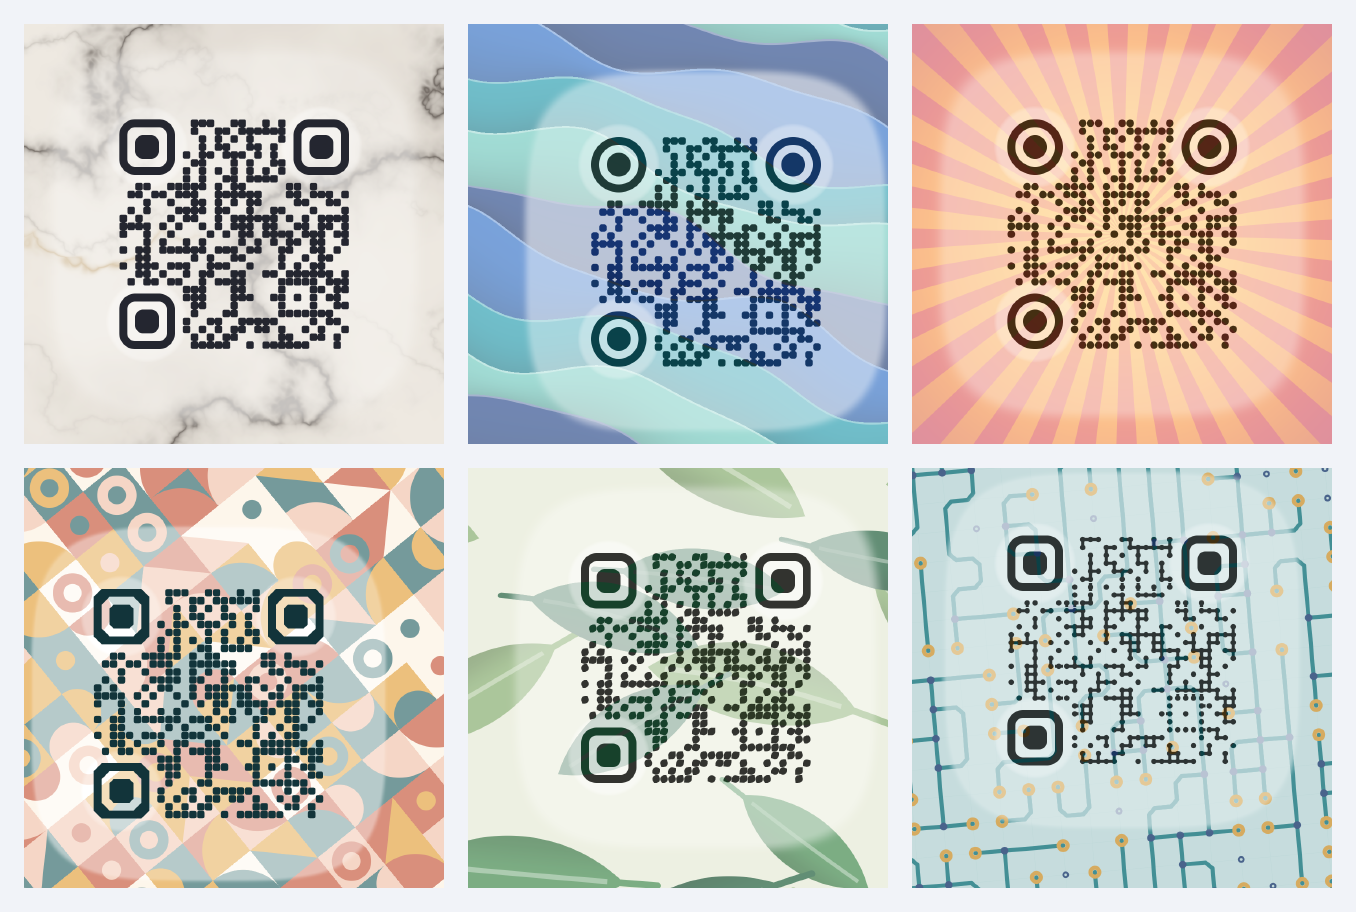
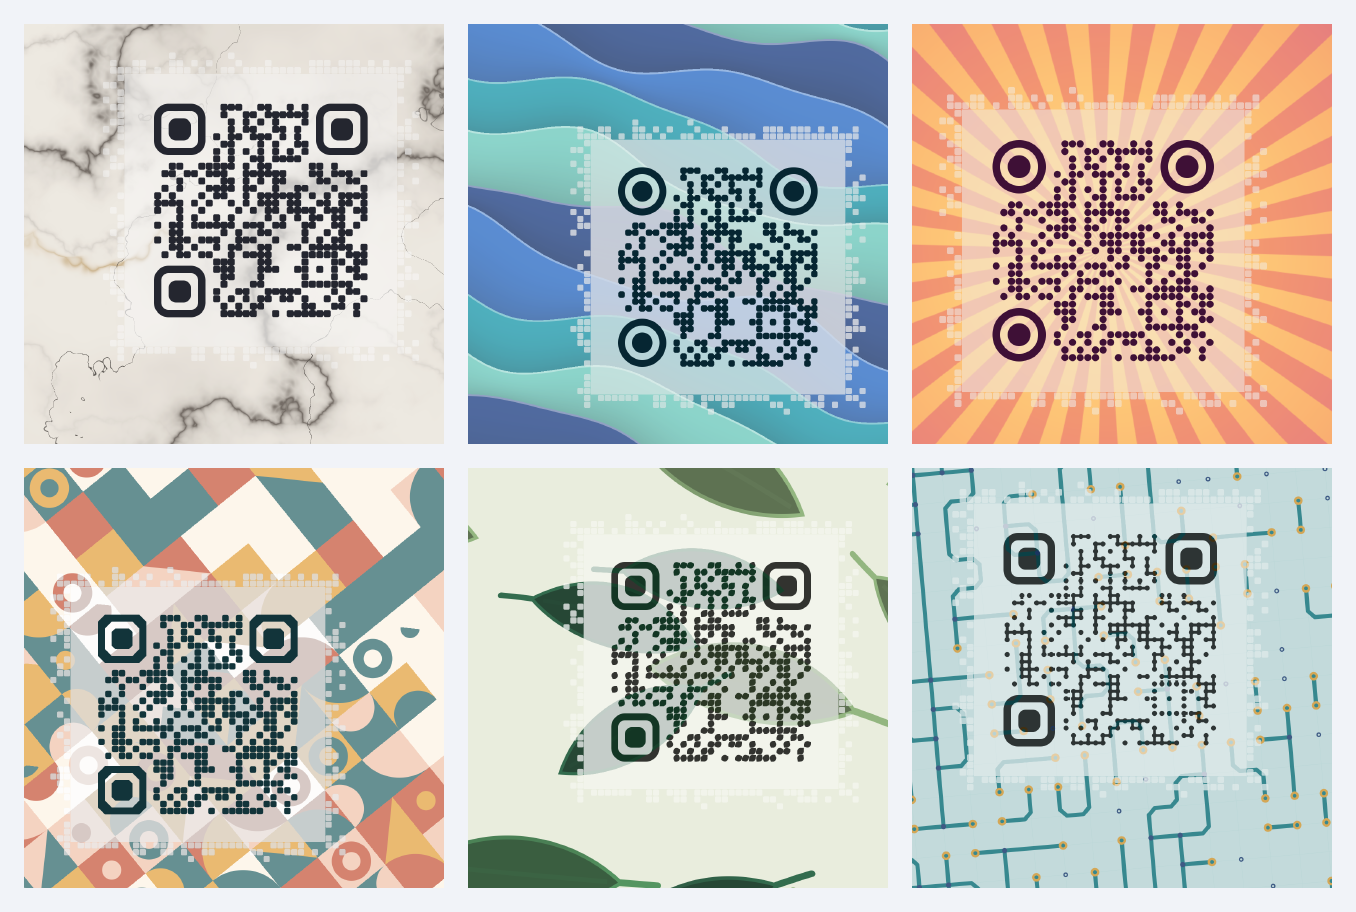
docs(art): 📝 refresh gallery images and scene size guidance

diff --git a/README.md b/README.md
@@ -430,7 +430,7 @@ The [procedural-art example](https://github.com/EvotecIT/CodeGlyphX/blob/master/
 
 ![Six illustrated QR scenes: tropical garden, electric city, music festival, ocean reef, cosmic orbit and retro arcade](https://raw.githubusercontent.com/EvotecIT/CodeGlyphX/892b6fb815bfcb1b794789aa9d74ca1b3b67bb22/Assets/Examples/qr-scene-gallery.png)
 
-`QrArt.ComposeScene` draws complete posters from seeded geometry. Each scene has five editable layers: backdrop, illustrations, QR, caption and an optional logo. Move, scale, rotate or hide decorative layers; QR rotation uses quarter turns. The QR renders above the artwork with protected functional patterns and a complete four-module quiet zone. Each scene holds the code in a light backdrop that is part of the illustration (an arch, a billboard, a stage screen, a bubble, a moon or an arcade panel) and follows the QR placement. Placement that clips the QR, or leaves fewer than three pixels per module, is rejected: at the preset scale of 0.5 a short URL needs about 300 pixels and a 130-character URL about 420.
+`QrArt.ComposeScene` draws complete posters from seeded geometry. Each scene has five editable layers: backdrop, illustrations, QR, caption and an optional logo. Move, scale, rotate or hide decorative layers; QR rotation uses quarter turns. The QR renders above the artwork with protected functional patterns and a complete four-module quiet zone. Each scene holds the code in a light backdrop that is part of the illustration (an arch, a billboard, a stage screen, a bubble, a moon or an arcade panel) and follows the QR placement. Placement that clips the QR, or leaves fewer than three pixels per module, is rejected: at the preset scales a short URL needs about 320 pixels and a 130-character URL about 450.
 
 ```csharp
 using CodeGlyphX;
